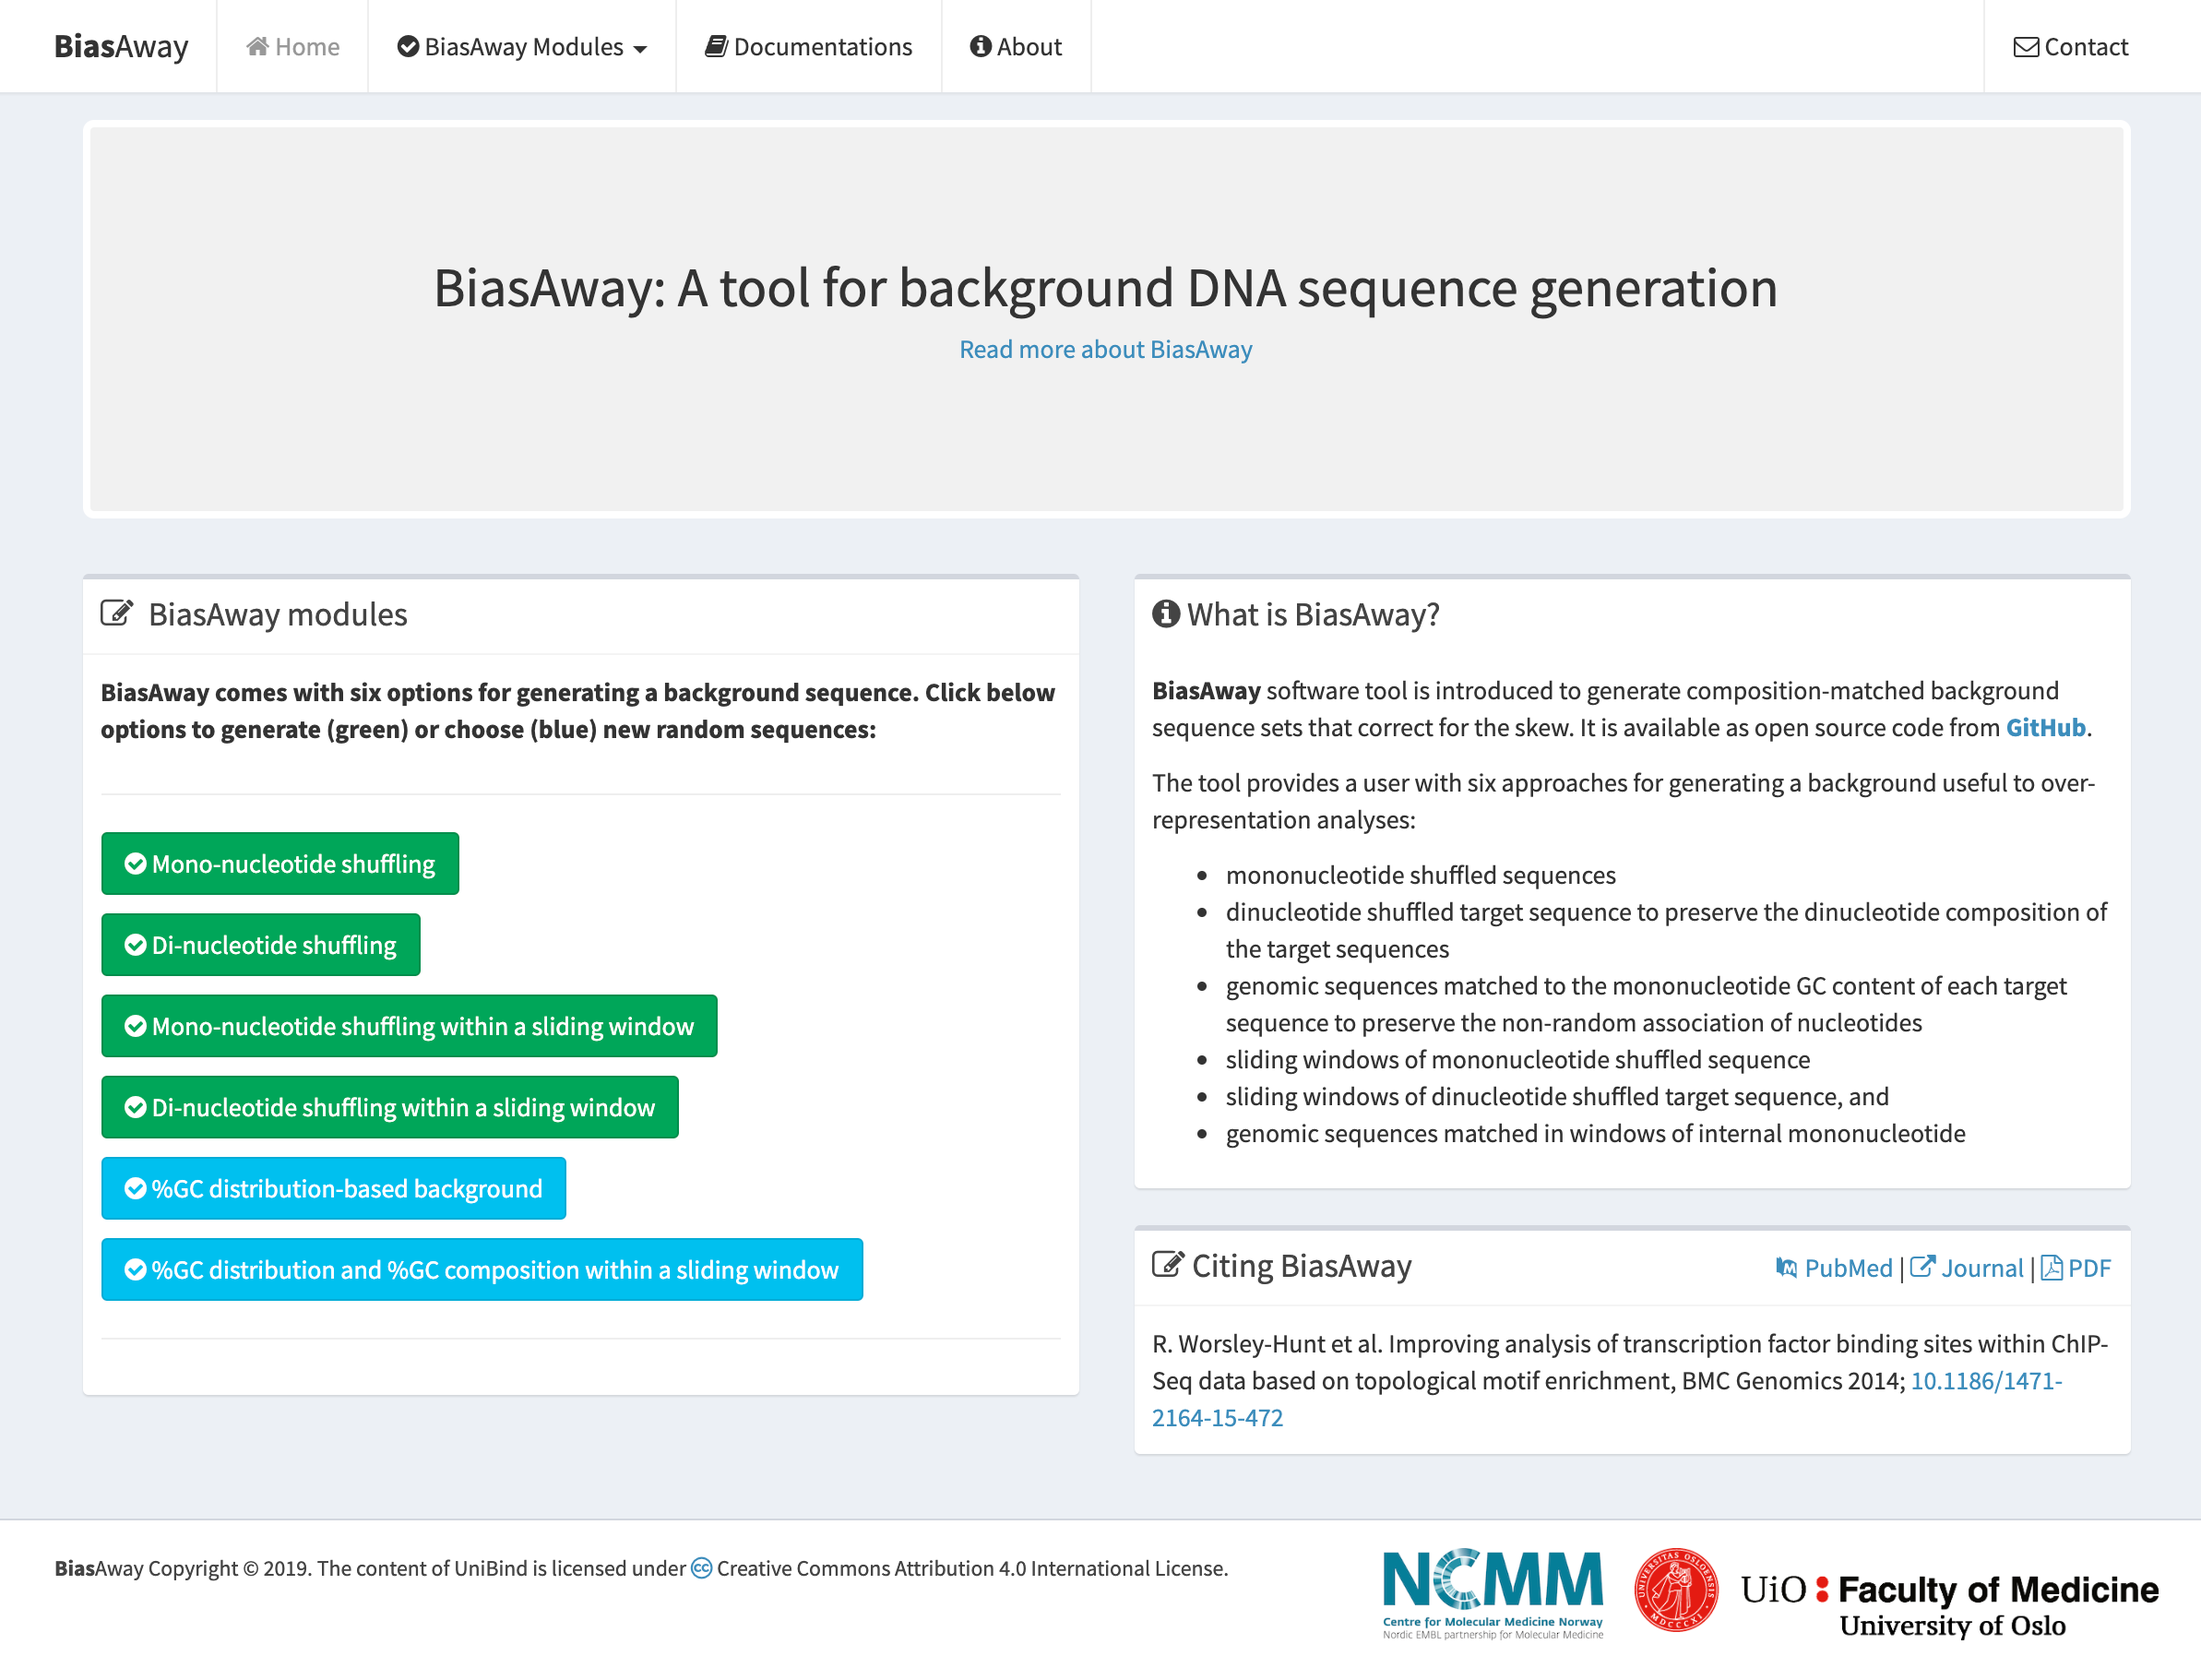
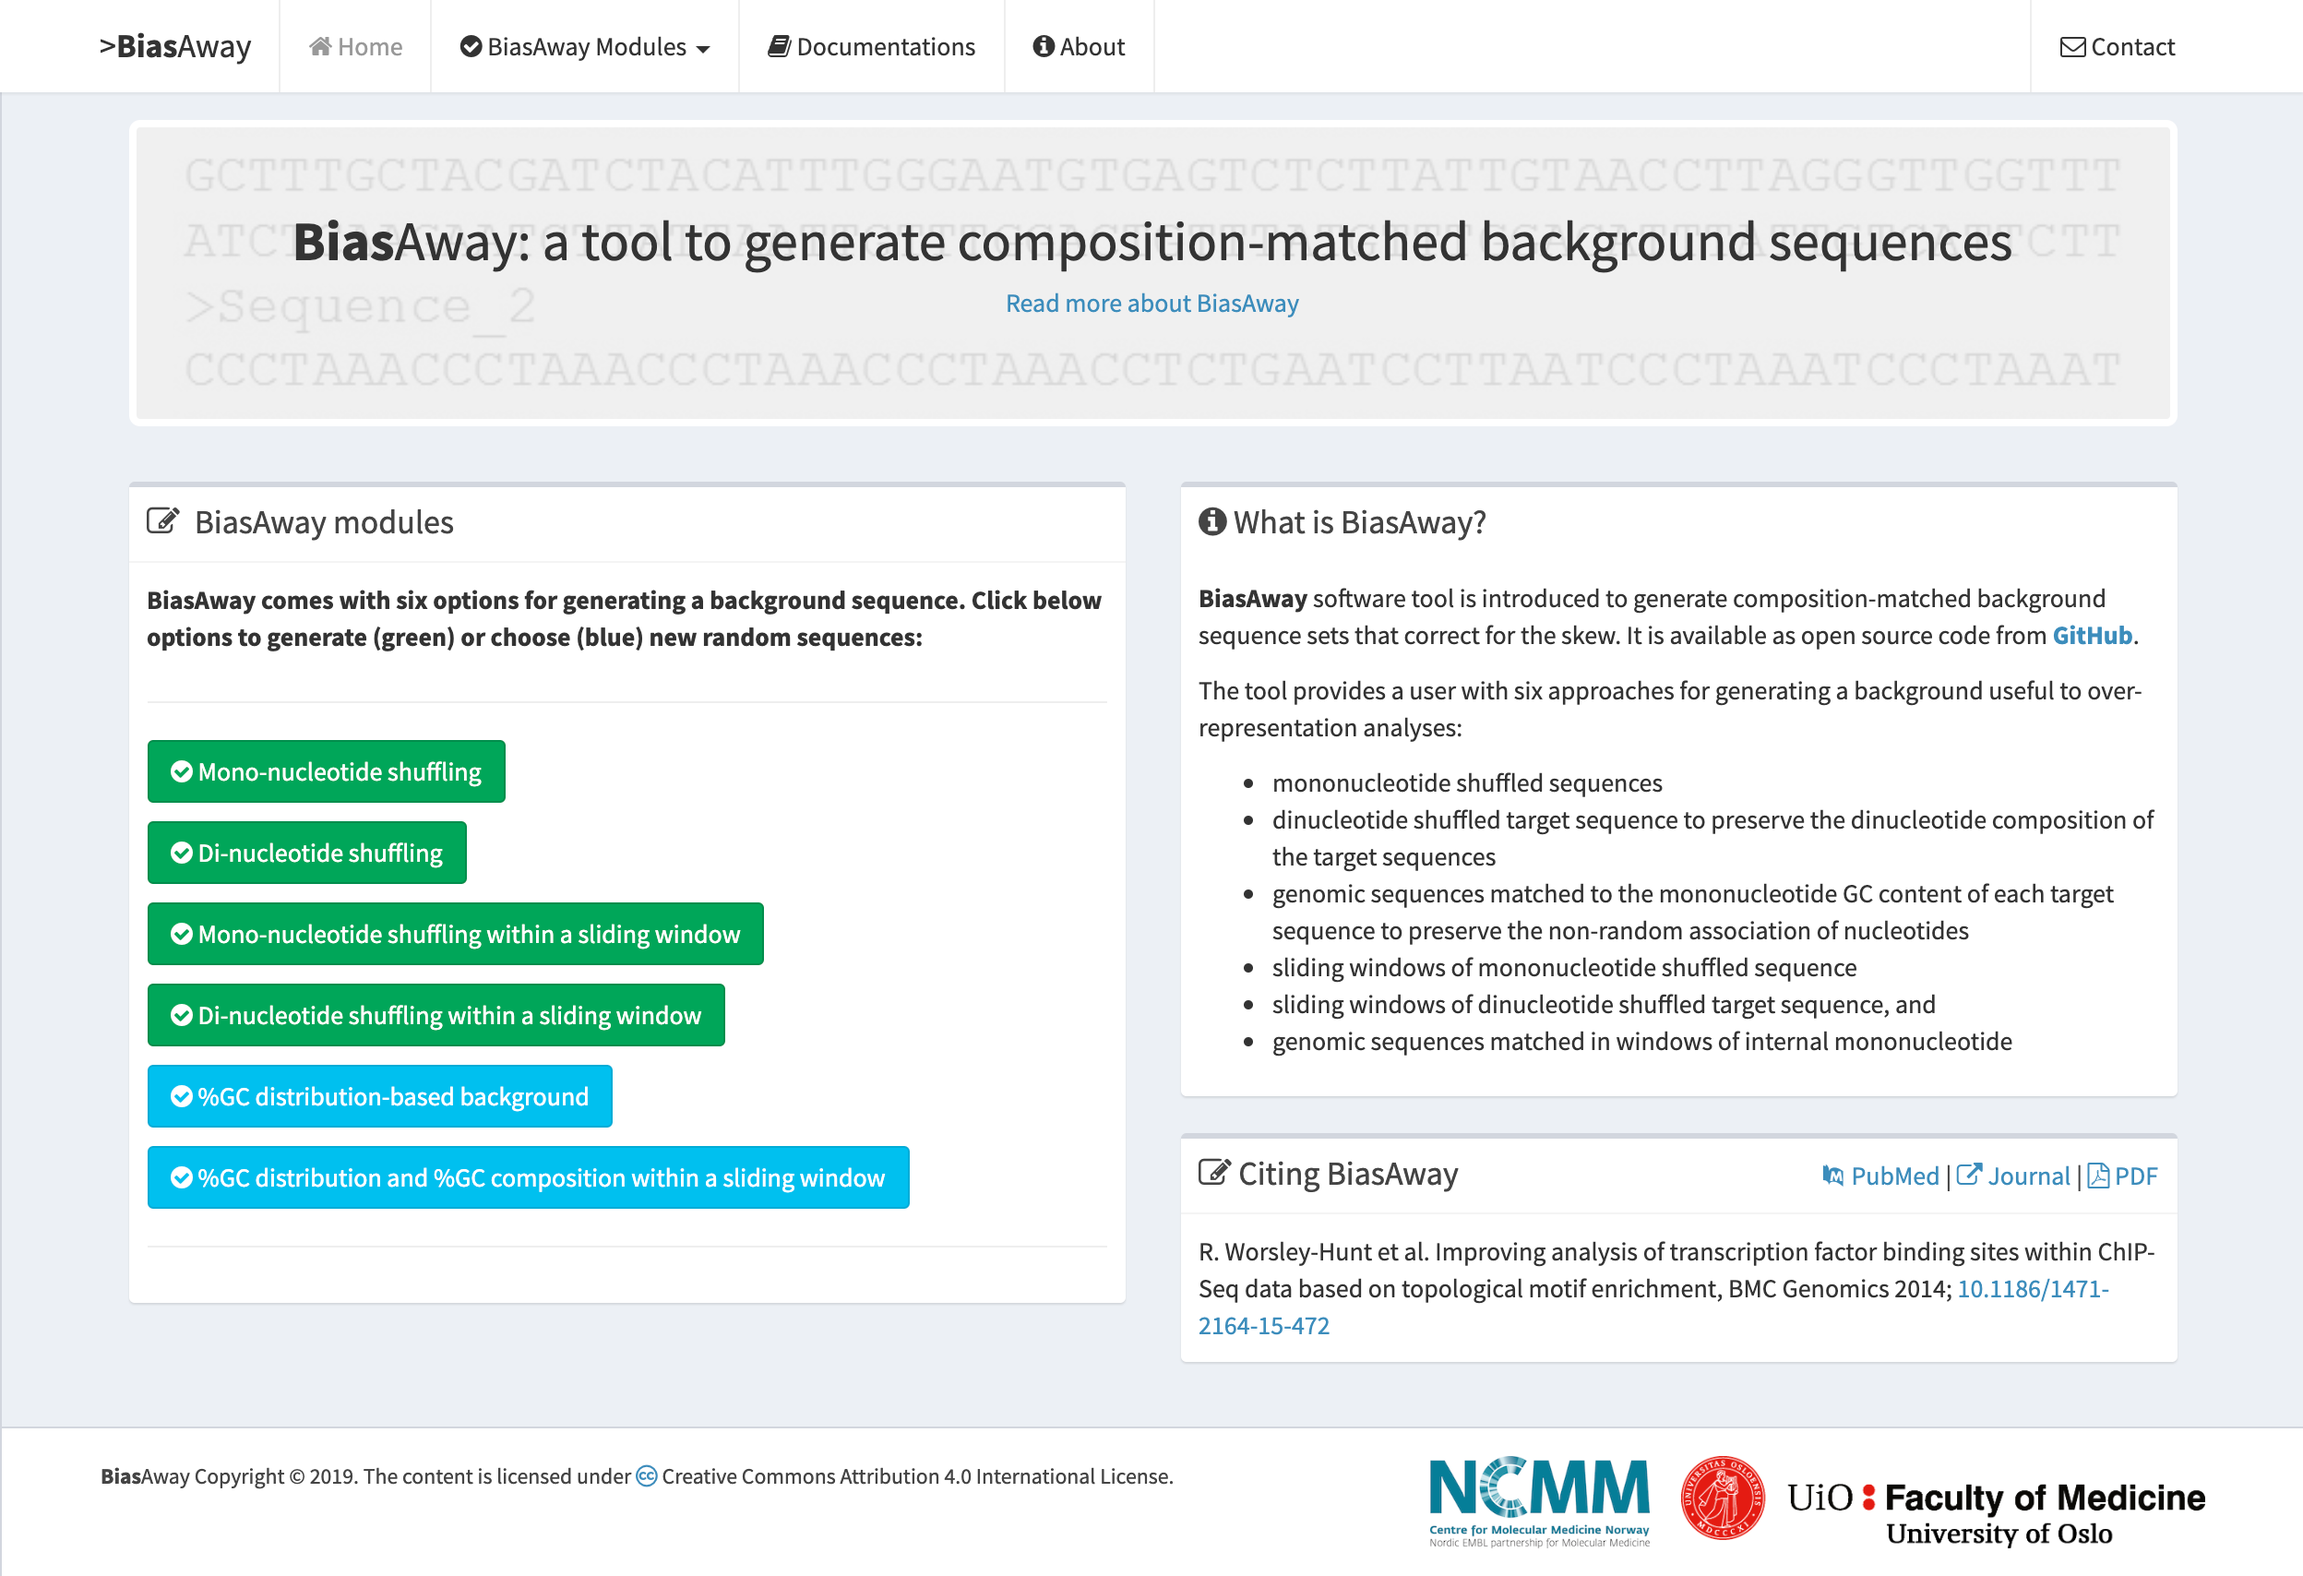
updated docs

diff --git a/docs/conf.py b/docs/conf.py
@@ -54,16 +54,16 @@ project = u'BiasAway'
 copyright = u'2019, Aziz Khan'
 author = u'Aziz Khan'
 
-#import intervene
+from biasaway import __version__ as VERSION
 # The version info for the project you're documenting, acts as replacement for
 # |version| and |release|, also used in various other places throughout the
 # built documents.
 #
 # The short X.Y version.
 #version = intervene.__version__
-version = '1.0.2'
+version = VERSION
 # The full version, including alpha/beta/rc tags.
-release = 'v1.0.2'
+release = 'v'+str(VERSION)
 
 # The language for content autogenerated by Sphinx. Refer to documentation
 # for a list of supported languages.
@@ -140,7 +140,7 @@ html_theme_options = {
 
 # The name for this set of Sphinx documents.  If None, it defaults to
 # "<project> v<release> documentation".
-html_title = "A tool for background DNA sequence generation"
+html_title = "A tool to generate composition-matched background sequences"
 
 # A shorter title for the navigation bar.  Default is the same as html_title.
 html_short_title = "BiasAway "+release+" documentation"
@@ -288,7 +288,7 @@ man_pages = [
 #  dir menu entry, description, category)
 texinfo_documents = [
   (master_doc, 'BiasAway', u'BiasAway Documentation',
-   author, 'BiasAway', 'BiasAway is a tool for background DNA sequence generation.',
+   author, 'BiasAway', 'BiasAway is a tool to generate composition-matched background sequences.',
    'Miscellaneous'),
 ]
 

diff --git a/README.rst b/README.rst
@@ -52,7 +52,7 @@ You can install BiasAway from PyPi using pip.
 	pip install biasaway
 	
 
-BiasAway is developed in Python and Python packages ``BioPython`` and ``Numpy (<=v1.16.5)``. Both ``pip`` and ``conda`` will install these dependencies and you are ready to use BiasAway. BiasAway is tested with Python versions ``2.7``, ``3.4``, ``3.5``, and ``3.6``. 
+BiasAway is developed in Python and Python packages ``biopython`` and ``numpy``. Both ``pip`` and ``conda`` will install these dependencies and you are ready to use BiasAway. It is tested with Python versions ``2.7``, ``3.4``, ``3.5``, and ``3.6``. 
 
 Install BiasAway from source
 =============================

diff --git a/docs/install.rst b/docs/install.rst
@@ -15,7 +15,7 @@ Prerequisites
 BiasAway requires the following Python modules:
 
 	* Biopython: https://biopython.org
-	* Numpy (<=v1.16.5): https://numpy.org
+	* Numpy: https://numpy.org
 
 Install Biopython and Numpy
 ----------------------------
@@ -29,7 +29,7 @@ BiasAway is using `biopython <https://biopython.org>`_ and `numpy <https://numpy
 
 .. code-block:: bash
 
-	pip install numpy==1.16.5
+	pip install numpy
 
 Install uisng Conda
 --------------------
